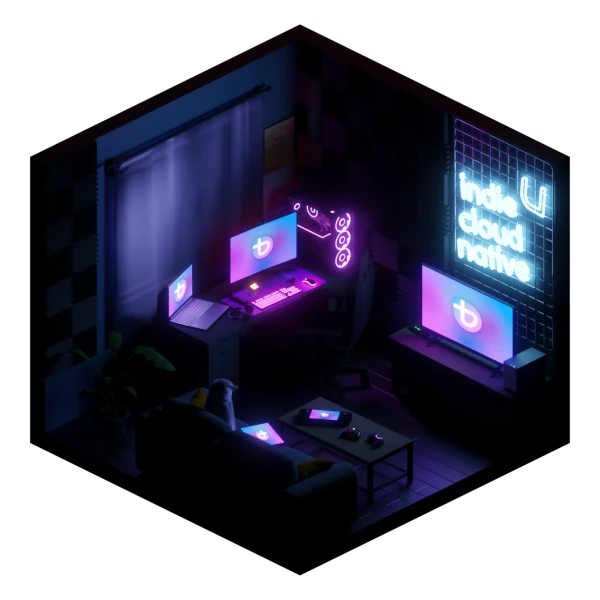
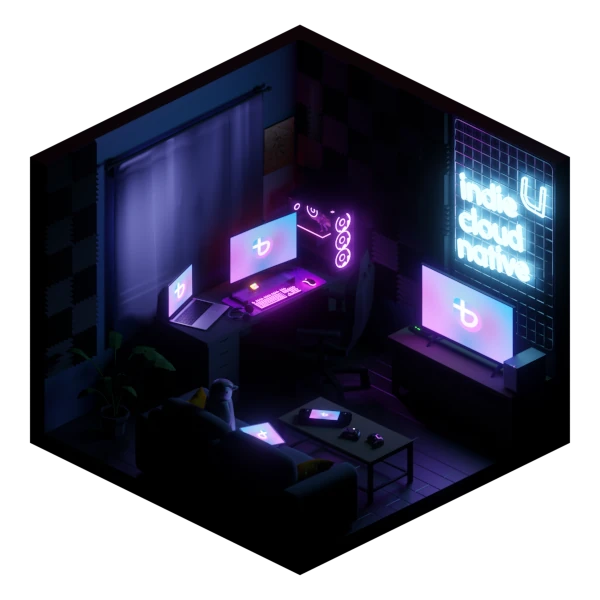
chore: Update convergence render

diff --git a/index.html b/index.html
@@ -5664,7 +5664,7 @@
 															<div class="image_frame image_item no_link scale-with-grid alignnone no_border">
 																<div class="image_wrapper ">
 																	<a href="https://docs.bazzite.gg/Gaming/Hardware_compatibility_for_gaming/" target="_blank" title="View Compatible Hardware">
-																		<img width="1300" height="1300" src="wp-content/uploads/2024/09/convergence_small_nl.webp" class="scale-with-grid convergence" alt="A sample of the devices Bazzite can run on" decoding="async" loading="lazy" />
+																		<img width="1300" height="1300" src="wp-content/uploads/2024/09/convergence_small_nl2.webp" class="scale-with-grid convergence" alt="A sample of the devices Bazzite can run on" decoding="async" loading="lazy" />
 																	</a>
 																</div>
 															</div>
